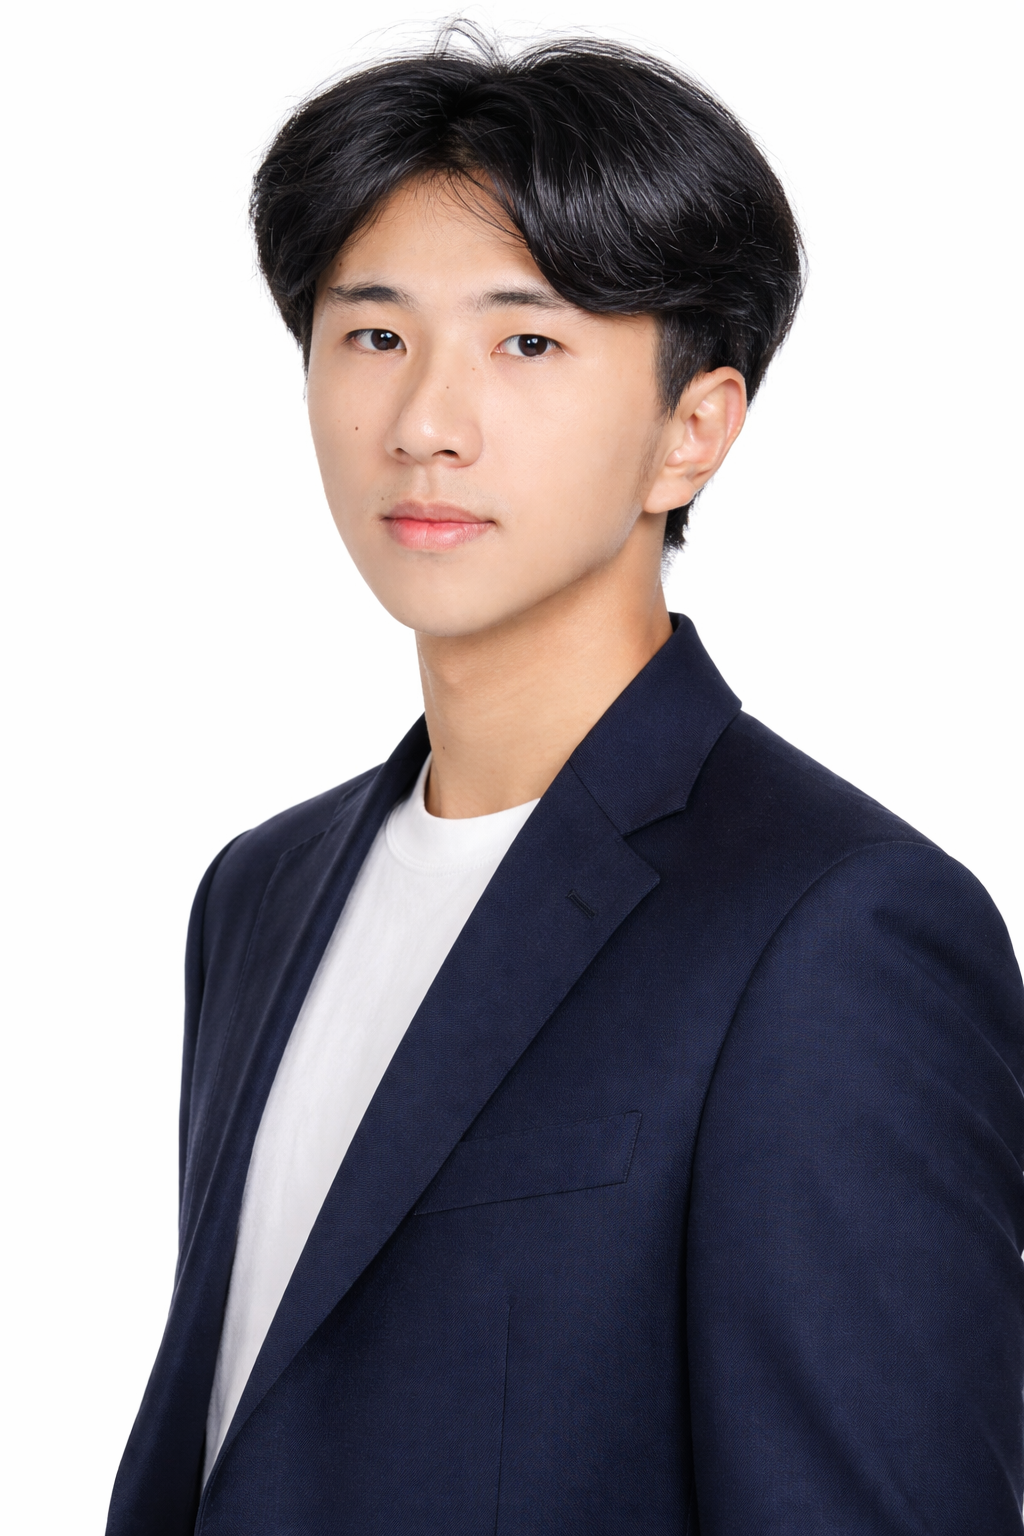
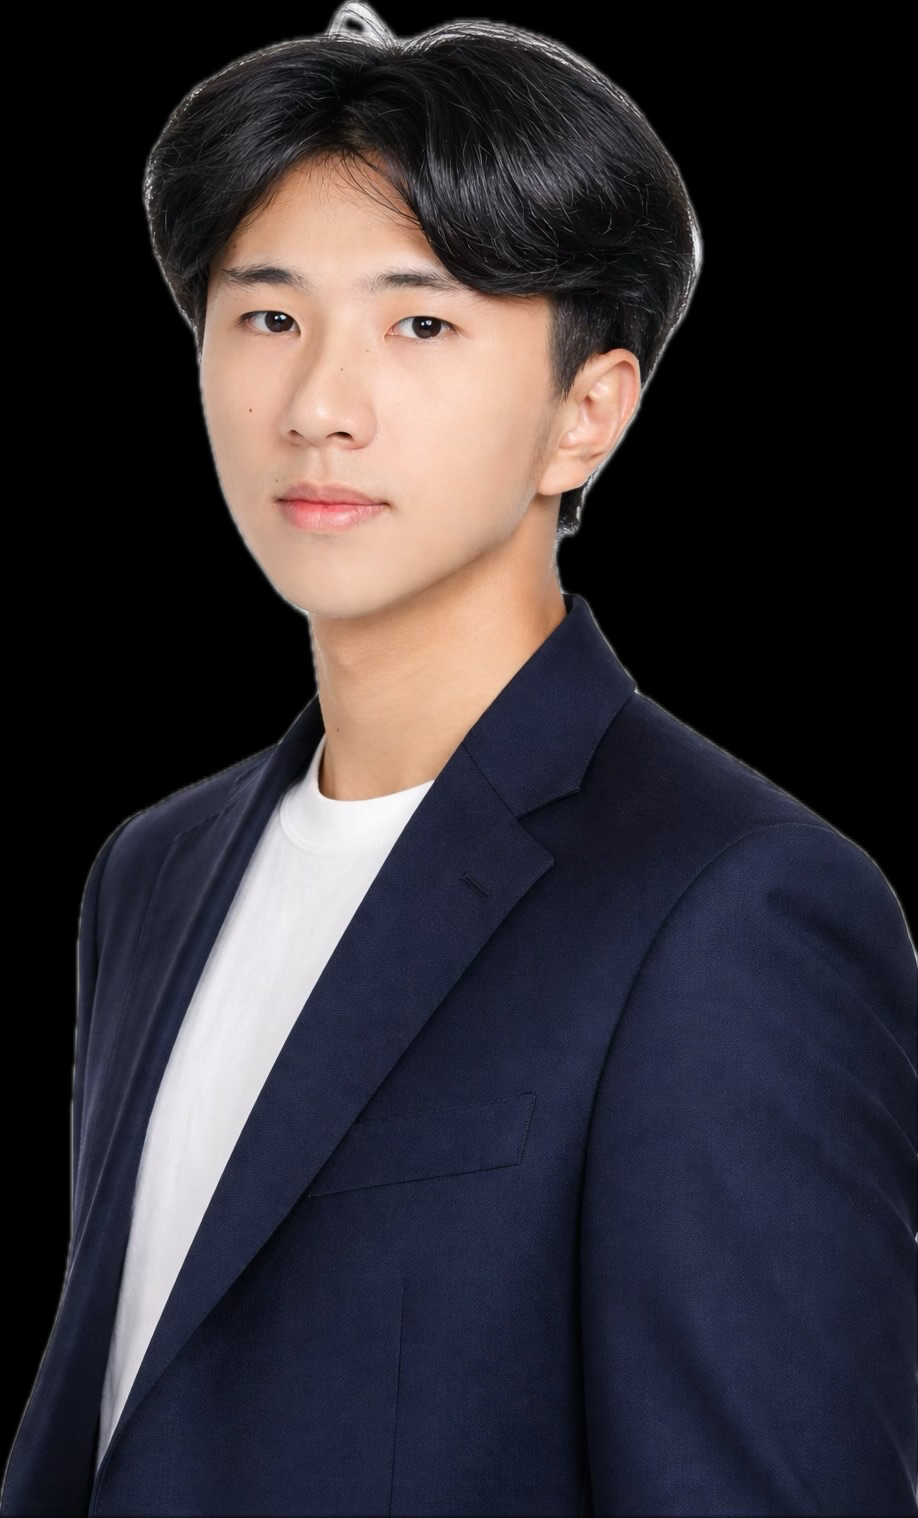
feat(intro): refine mobile storytelling layout

diff --git a/esg_ai_platform/static/css/app.css b/esg_ai_platform/static/css/app.css
@@ -871,6 +871,17 @@ form ul.errorlist {
   position: relative;
 }
 
+.intro-portrait-frame {
+  background: #050506;
+  border-radius: 24px;
+  bottom: 0;
+  box-shadow: 0 42px 90px rgba(15, 23, 42, .28), 0 80px 120px rgba(15, 23, 42, .2);
+  overflow: hidden;
+  position: absolute;
+  right: 0;
+  width: min(440px, 88%);
+}
+
 .intro-portrait {
   display: block;
   height: auto;
@@ -879,20 +890,19 @@ form ul.errorlist {
 }
 
 .intro-portrait-hero {
-  bottom: 0;
   max-height: 690px;
-  position: absolute;
-  right: 0;
-  width: min(460px, 92%);
+  width: 100%;
 }
 
 .intro-data-card,
 .metric-tile,
-.intelligence-panel div {
+.intelligence-panel div,
+.process-card,
+.project-story-panel div {
   background: rgba(255, 255, 255, .82);
   border: 1px solid rgba(15, 23, 42, .1);
   border-radius: 8px;
-  box-shadow: 0 24px 70px rgba(15, 23, 42, .12);
+  box-shadow: 0 26px 72px rgba(15, 23, 42, .14);
 }
 
 .intro-data-card {
@@ -903,20 +913,27 @@ form ul.errorlist {
 }
 
 .intro-data-card-a {
-  left: 0;
-  top: 20%;
+  left: 4px;
+  top: 16%;
 }
 
 .intro-data-card-b {
-  bottom: 16%;
-  right: 10px;
+  bottom: 24%;
+  left: 28px;
+}
+
+.intro-data-card-c {
+  right: 0;
+  top: 36%;
 }
 
 .intro-data-card span,
 .metric-tile span,
 .intelligence-panel span,
 .benchmark-row span,
-.benchmark-total span {
+.benchmark-total span,
+.process-card span,
+.project-story-panel span {
   color: var(--muted);
   display: block;
   font-size: .78rem;
@@ -987,6 +1004,40 @@ form ul.errorlist {
 
 .metric-tile strong {
   font-size: 3.4rem;
+}
+
+.intro-process {
+  display: grid;
+  gap: 42px;
+  min-height: 100vh;
+  padding: 90px 0;
+}
+
+.process-track {
+  display: grid;
+  gap: 14px;
+  grid-template-columns: repeat(6, minmax(0, 1fr));
+}
+
+.process-card {
+  align-content: start;
+  display: grid;
+  gap: 12px;
+  min-height: 210px;
+  padding: 18px;
+  transform: translateY(34px);
+}
+
+.process-card strong {
+  font-size: 1.08rem;
+  line-height: 1.25;
+}
+
+.process-card p {
+  color: var(--muted);
+  font-size: .92rem;
+  line-height: 1.55;
+  margin: 0;
 }
 
 .intro-benchmark {
@@ -1088,14 +1139,19 @@ form ul.errorlist {
   grid-template-columns: minmax(0, .9fr) minmax(340px, .78fr);
 }
 
-.founder-photo-wrap {
-  align-self: end;
-  justify-self: end;
-  max-width: 440px;
+.project-story-panel {
+  display: grid;
+  gap: 12px;
 }
 
-.founder-photo-wrap .intro-portrait {
-  filter: drop-shadow(0 34px 50px rgba(15, 23, 42, .16));
+.project-story-panel div {
+  padding: 20px;
+}
+
+.project-story-panel strong {
+  display: block;
+  font-size: 1.35rem;
+  margin-top: 8px;
 }
 
 .intro-final {
@@ -1113,38 +1169,47 @@ form ul.errorlist {
 
 .intro-reveal,
 .story-chip,
-.metric-tile {
+.metric-tile,
+.intro-data-card,
+.process-card {
   opacity: 0;
   transform: translateY(34px);
   transition: opacity 700ms ease, transform 700ms ease;
 }
 
 .story-chip:nth-child(2),
-.metric-tile:nth-child(2) {
+.metric-tile:nth-child(2),
+.process-card:nth-child(2) {
   transition-delay: 100ms;
 }
 
 .story-chip:nth-child(3),
-.metric-tile:nth-child(3) {
+.metric-tile:nth-child(3),
+.process-card:nth-child(3) {
   transition-delay: 180ms;
 }
 
 .story-chip:nth-child(4),
-.metric-tile:nth-child(4) {
+.metric-tile:nth-child(4),
+.process-card:nth-child(4) {
   transition-delay: 260ms;
 }
 
-.story-chip:nth-child(5) {
+.story-chip:nth-child(5),
+.process-card:nth-child(5) {
   transition-delay: 340ms;
 }
 
-.story-chip:nth-child(6) {
+.story-chip:nth-child(6),
+.process-card:nth-child(6) {
   transition-delay: 420ms;
 }
 
 .intro-reveal.is-visible,
 .story-chip.is-visible,
-.metric-tile.is-visible {
+.metric-tile.is-visible,
+.intro-data-card.is-visible,
+.process-card.is-visible {
   opacity: 1;
   transform: translateY(0);
 }
@@ -1153,6 +1218,8 @@ form ul.errorlist {
   .intro-reveal,
   .story-chip,
   .metric-tile,
+  .intro-data-card,
+  .process-card,
   .data-bar {
     opacity: 1;
     transform: none;
@@ -1687,7 +1754,7 @@ form ul.errorlist {
     min-height: 520px;
   }
 
-  .intro-portrait-hero {
+  .intro-portrait-frame {
     left: auto;
     right: 0;
     width: min(390px, 88%);
@@ -1702,8 +1769,8 @@ form ul.errorlist {
     grid-template-columns: 1fr;
   }
 
-  .founder-photo-wrap {
-    justify-self: center;
+  .process-track {
+    grid-template-columns: repeat(2, minmax(0, 1fr));
   }
 
   .compare-picker {
@@ -1791,14 +1858,51 @@ form ul.errorlist {
     min-height: 420px;
   }
 
+  .intro-portrait-frame {
+    border-radius: 18px;
+    left: 50%;
+    right: auto;
+    transform: translateX(-50%);
+    width: min(320px, 88%);
+  }
+
   .intro-data-card {
     min-width: 132px;
     padding: 12px;
   }
 
+  .intro-data-card-a {
+    left: 4px;
+    top: 8%;
+  }
+
+  .intro-data-card-b {
+    bottom: 10%;
+    left: 8px;
+  }
+
+  .intro-data-card-c {
+    right: 0;
+    top: 44%;
+  }
+
   .intro-data-card strong,
   .metric-tile strong {
     font-size: 2.4rem;
+  }
+
+  .intro-process,
+  .intro-benchmark {
+    min-height: auto;
+    padding: 56px 0;
+  }
+
+  .process-track {
+    grid-template-columns: 1fr;
+  }
+
+  .process-card {
+    min-height: auto;
   }
 
   .benchmark-visual {

diff --git a/esg_ai_platform/templates/dashboard/intro.html b/esg_ai_platform/templates/dashboard/intro.html
@@ -23,14 +23,20 @@
       </div>
     </div>
     <div class="intro-hero-visual" data-parallax="0.08">
-      <img class="intro-portrait intro-portrait-hero" src="{% static 'img/founder-portrait.png' %}" alt="AIxESG project founder portrait">
+      <div class="intro-portrait-frame">
+        <img class="intro-portrait intro-portrait-hero" src="{% static 'img/founder-portrait.png' %}" alt="AIxESG project founder portrait">
+      </div>
       <div class="intro-data-card intro-data-card-a">
+        <span>Industry PR</span>
+        <strong data-counter="91">0</strong>
+      </div>
+      <div class="intro-data-card intro-data-card-b">
         <span>Disclosure Rate</span>
         <strong data-counter="82" data-suffix="%">0%</strong>
       </div>
-      <div class="intro-data-card intro-data-card-b">
-        <span>Industry PR</span>
-        <strong data-counter="91">0</strong>
+      <div class="intro-data-card intro-data-card-c">
+        <span>Benchmark Sample</span>
+        <strong data-counter="127">0</strong>
       </div>
     </div>
   </section>
@@ -76,6 +82,49 @@
       <article class="metric-tile">
         <span>Disclosure Rate</span>
         <strong data-counter="84" data-suffix="%">0%</strong>
+      </article>
+    </div>
+  </section>
+
+  <section class="intro-process intro-reveal">
+    <div class="intro-section-copy intro-center">
+      <div class="eyebrow">System Workflow</div>
+      <h2>
+        <span>從 PDF</span>
+        <span>到可比較的產業資料</span>
+      </h2>
+      <p>AIxESG 保留原始報告、解析文字、RAG 引用與規則引擎結果，讓每一個分數都能追溯到報告書段落。</p>
+    </div>
+    <div class="process-track">
+      <article class="process-card">
+        <span>01</span>
+        <strong>PDF Upload</strong>
+        <p>上傳永續報告並建立報告版本。</p>
+      </article>
+      <article class="process-card">
+        <span>02</span>
+        <strong>Parsing</strong>
+        <p>抽取頁面文字、年份、公司與章節內容。</p>
+      </article>
+      <article class="process-card">
+        <span>03</span>
+        <strong>Chunking</strong>
+        <p>切分段落，保留頁碼與引用來源。</p>
+      </article>
+      <article class="process-card">
+        <span>04</span>
+        <strong>RAG Retrieval</strong>
+        <p>依 GRI 305 指標搜尋最相關揭露段落。</p>
+      </article>
+      <article class="process-card">
+        <span>05</span>
+        <strong>Rule Engine</strong>
+        <p>計算 Raw Score、缺漏項目與揭露率。</p>
+      </article>
+      <article class="process-card">
+        <span>06</span>
+        <strong>Benchmark</strong>
+        <p>產業內計算 PR、Grade 與標竿差距。</p>
       </article>
     </div>
   </section>
@@ -134,8 +183,19 @@
       </h2>
       <p>AIxESG 起源於產學合作研究計畫。透過資料結構化與 AI 技術，讓永續資訊真正成為決策依據。</p>
     </div>
-    <div class="founder-photo-wrap" data-parallax="0.05">
-      <img class="intro-portrait" src="{% static 'img/founder-portrait.png' %}" alt="AIxESG founder portrait">
+    <div class="project-story-panel">
+      <div>
+        <span>Research</span>
+        <strong>GRI 305</strong>
+      </div>
+      <div>
+        <span>Database</span>
+        <strong>Industry Benchmark</strong>
+      </div>
+      <div>
+        <span>Platform</span>
+        <strong>Disclosure Intelligence</strong>
+      </div>
     </div>
   </section>
 

diff --git a/esg_ai_platform/static/js/dashboard.js b/esg_ai_platform/static/js/dashboard.js
@@ -211,7 +211,7 @@ function initIntroStorytelling() {
   if (!root) return;
 
   const reducedMotion = window.matchMedia("(prefers-reduced-motion: reduce)").matches;
-  const revealItems = root.querySelectorAll(".intro-reveal, .story-chip, .metric-tile, .data-bar");
+  const revealItems = root.querySelectorAll(".intro-reveal, .story-chip, .metric-tile, .intro-data-card, .process-card, .data-bar");
   const counters = root.querySelectorAll("[data-counter]");
   const parallaxItems = root.querySelectorAll("[data-parallax]");
   const setCounterValue = (element, value) => {
@@ -260,7 +260,7 @@ function initIntroStorytelling() {
   revealItems.forEach((item) => observer.observe(item));
   counters.forEach((counter) => observer.observe(counter));
 
-  if (parallaxItems.length) {
+  if (parallaxItems.length && window.matchMedia("(min-width: 768px)").matches) {
     let ticking = false;
     const updateParallax = () => {
       const center = window.innerHeight / 2;
